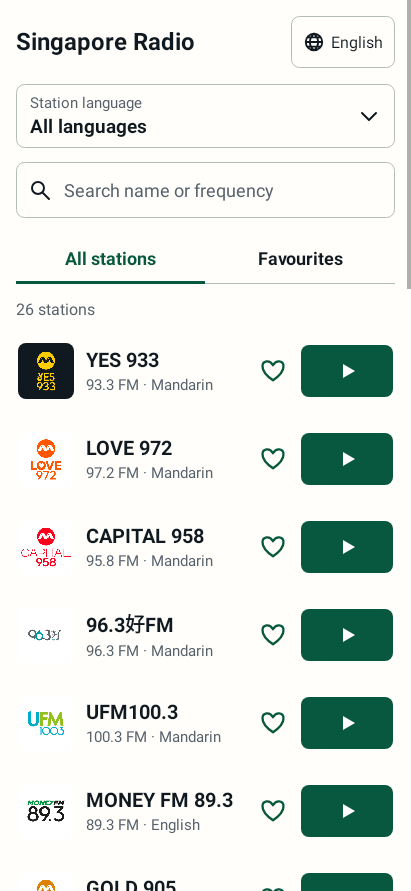
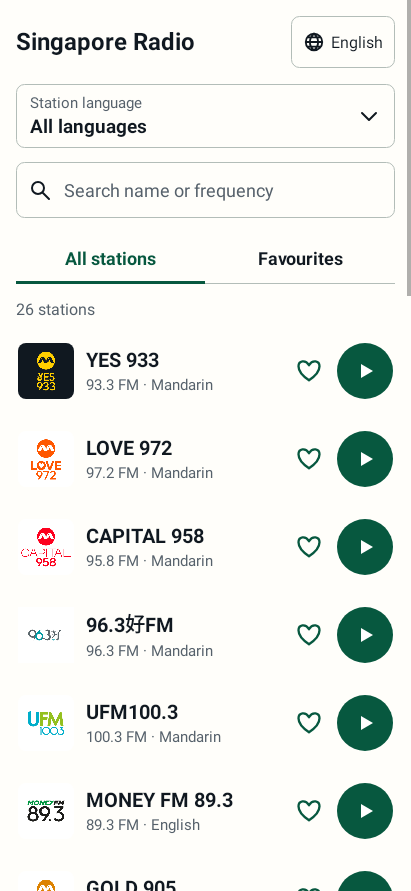
Make station Play buttons circular

diff --git a/app/src/main/java/com/oai/singaporeradio/MainActivity.java b/app/src/main/java/com/oai/singaporeradio/MainActivity.java
@@ -362,15 +362,15 @@ public class MainActivity extends Activity {
         actions.addView(heart, lp(ui.dp(48), ui.dp(52), 0, 0));
         Button play = ui.button("", Color.WHITE, GREEN);
         play.setTag("play:" + station.name);
-        // Keep the generous touch target; the standalone icon is centred in both row layouts.
-        play.setMinWidth(ui.dp(92));
-        play.setMinimumWidth(ui.dp(92));
+        // Match the bottom shortcut's 56dp circular touch target.
+        play.setMinWidth(ui.dp(56));
+        play.setMinimumWidth(ui.dp(56));
         play.setForegroundGravity(Gravity.CENTER);
         play.setOnClickListener(v -> {
             if (selected == station && playback.active) setPlayerOpen(true);
             else { captureQueue(); playStation(station, true); }
         });
-        LinearLayout.LayoutParams playParams = lp(stacked ? -2 : ui.dp(92), -2, 0, 0);
+        LinearLayout.LayoutParams playParams = lp(ui.dp(56), ui.dp(56), 0, 0);
         playParams.leftMargin = ui.dp(4);
         actions.addView(play, playParams);
         row.addView(actions, lp(stacked ? -1 : -2, -2, 0, 0));
@@ -524,7 +524,18 @@ public class MainActivity extends Activity {
             row.play.setTextSize(active ? 15 : 17);
             row.play.setTextColor(active ? GREEN : Color.WHITE);
             row.play.setForeground(active ? null : ui.icon(R.drawable.ic_ui_play, Color.WHITE, 24));
-            ui.clickable(row.play, active ? Color.TRANSPARENT : GREEN, 8, null);
+            row.play.setPadding(active ? ui.dp(12) : 0, active ? ui.dp(10) : 0,
+                active ? ui.dp(12) : 0, active ? ui.dp(10) : 0);
+            // Keep status text readable while idle Play controls remain true circles.
+            LinearLayout.LayoutParams params = (LinearLayout.LayoutParams) row.play.getLayoutParams();
+            int width = active ? (stacked ? -2 : ui.dp(92)) : ui.dp(56);
+            int height = active ? -2 : ui.dp(56);
+            if (params.width != width || params.height != height) {
+                params.width = width;
+                params.height = height;
+                row.play.setLayoutParams(params);
+            }
+            ui.clickable(row.play, active ? Color.TRANSPARENT : GREEN, active ? 8 : 100, null);
             row.play.setContentDescription(getString(active ? R.string.open_player_accessibility : R.string.play_accessibility, entry.getKey()));
         }
         miniBar.setVisibility(selected == null ? View.GONE : View.VISIBLE);

diff --git a/docs/UI_REDESIGN.md b/docs/UI_REDESIGN.md
@@ -1,4 +1,4 @@
-# Frontend redesign — version 1.4.3
+# Frontend redesign — version 1.4.4
 
 This version implements the approved ivory/green mobile design, including the final smaller chevron and icon-only playback shortcut in the bottom bar.
 
@@ -7,7 +7,7 @@ This version implements the approved ivory/green mobile design, including the fi
 - **All stations** is the default launch tab. Station-language filtering and name/frequency search work together on both tabs.
 - **Favourites** contains stations saved with the separate heart control. Saving or removing a station never sends a playback command.
 - **Play in a station row** starts that station and opens the full Focus Player. A connecting or buffering station is not marked LIVE.
-- **Station-row buttons (1.4.3):** idle stations use a centred white play triangle on a green button, without visible Play text. The generous touch target and localized screen-reader labels remain. The active station still displays Playing, Connecting or Buffering so its state is clear.
+- **Station-row buttons (1.4.4):** idle stations use a centred white play triangle on a circular green button with a 56dp touch target, without visible Play text. Localized screen-reader labels remain. The active station still displays Playing, Connecting or Buffering with enough space for the text.
 - **Browse stations / Android Back from the player** returns to the same browser, without stopping audio.
 - **Player transition (1.4.2):** opening rises 32dp and fades in over 280 ms; closing reverses it over 224 ms. The browser and bottom bar stay still underneath, retaining their scroll position. The easing matches the approved gentle-rise design, with no bounce or zoom. Both station-row Play and the bottom bar use this navigation transition.
 - **Bottom bar:** the logo, name, text and small chevron open the Focus Player. The separate circular control stops playback (red square) or starts the shown station (green triangle), without opening the player. The bar remains after stopping; it is hidden until a station has been selected.
@@ -75,4 +75,4 @@ Suggested checks:
 8. Tap the bottom bar to open the player, then Browse stations or Android Back to return. Confirm the gentle motion does not interrupt sound or move the station list.
 9. Press Android Back midway through opening, rotate or background the app during a transition, and confirm the destination remains fully visible and usable.
 
-The app is version 1.4.3 / code 8, package `com.oai.singaporeradio`, minimum Android 7.0.
+The app is version 1.4.4 / code 9, package `com.oai.singaporeradio`, minimum Android 7.0.

diff --git a/README.md b/README.md
@@ -76,7 +76,7 @@ create signing keys automatically.
 
 ## Project details
 
-- Current version: **1.4.3** (version code 8)
+- Current version: **1.4.4** (version code 9)
 - Android 7.0 (API 24) or newer; targets Android 16 (API 36)
 - Package: `com.oai.singaporeradio`
 - Native Java Android UI
@@ -87,6 +87,9 @@ create signing keys automatically.
 - `PlayerTransition.java`: gentle player navigation with lifecycle and reduced-motion handling
 - `RadioService.java`: streaming, background playback, audio focus, and connection handling
 - `StationData.java`: immutable station catalog, language filters and broadcaster stream endpoints
+
+Version 1.4.4 makes the station-row Play buttons circular, with a 56dp touch
+target and the same centred white triangle. Active playback status stays readable.
 
 Version 1.4.3 removes the visible Play text from station-row buttons, leaving a
 centred white triangle on the green button. Accessible station-specific labels
